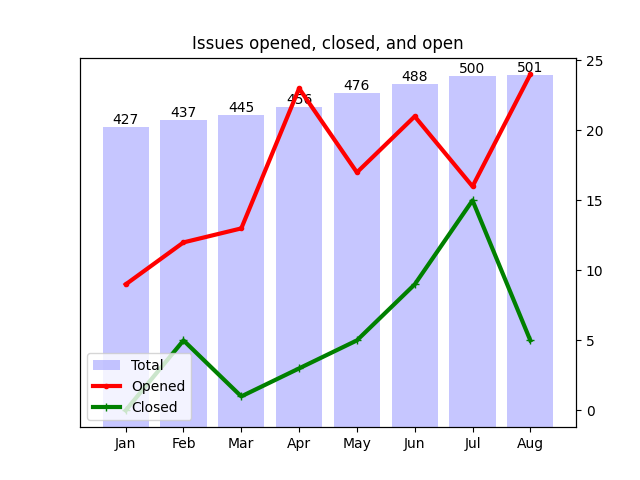
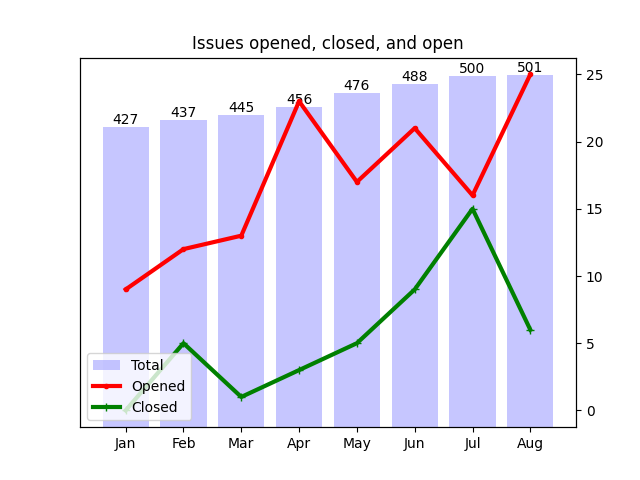
Apply automatic changes

diff --git a/docs/analytics.html b/docs/analytics.html
@@ -104,8 +104,8 @@ td .material-icons { display:inline-flex; vertical-align: top; font-size:1.1rem;
 						</tr>
 						<tr>
 							<td>Aug</td>
-							<td>24</td>
-							<td>5</td>
+							<td>25</td>
+							<td>6</td>
 						</tr>
 					</table>
 				</div>
